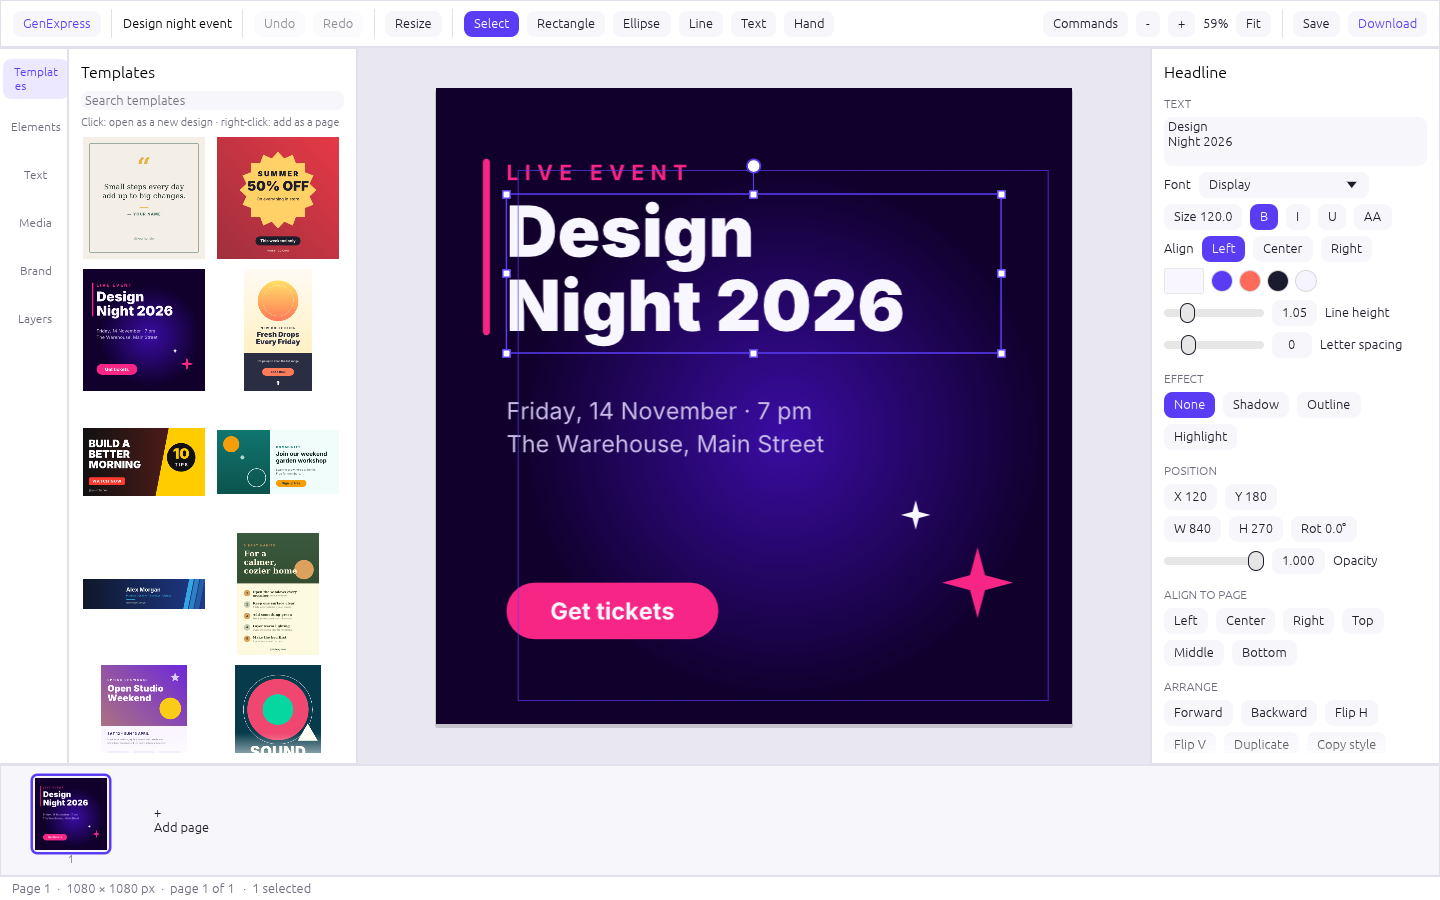
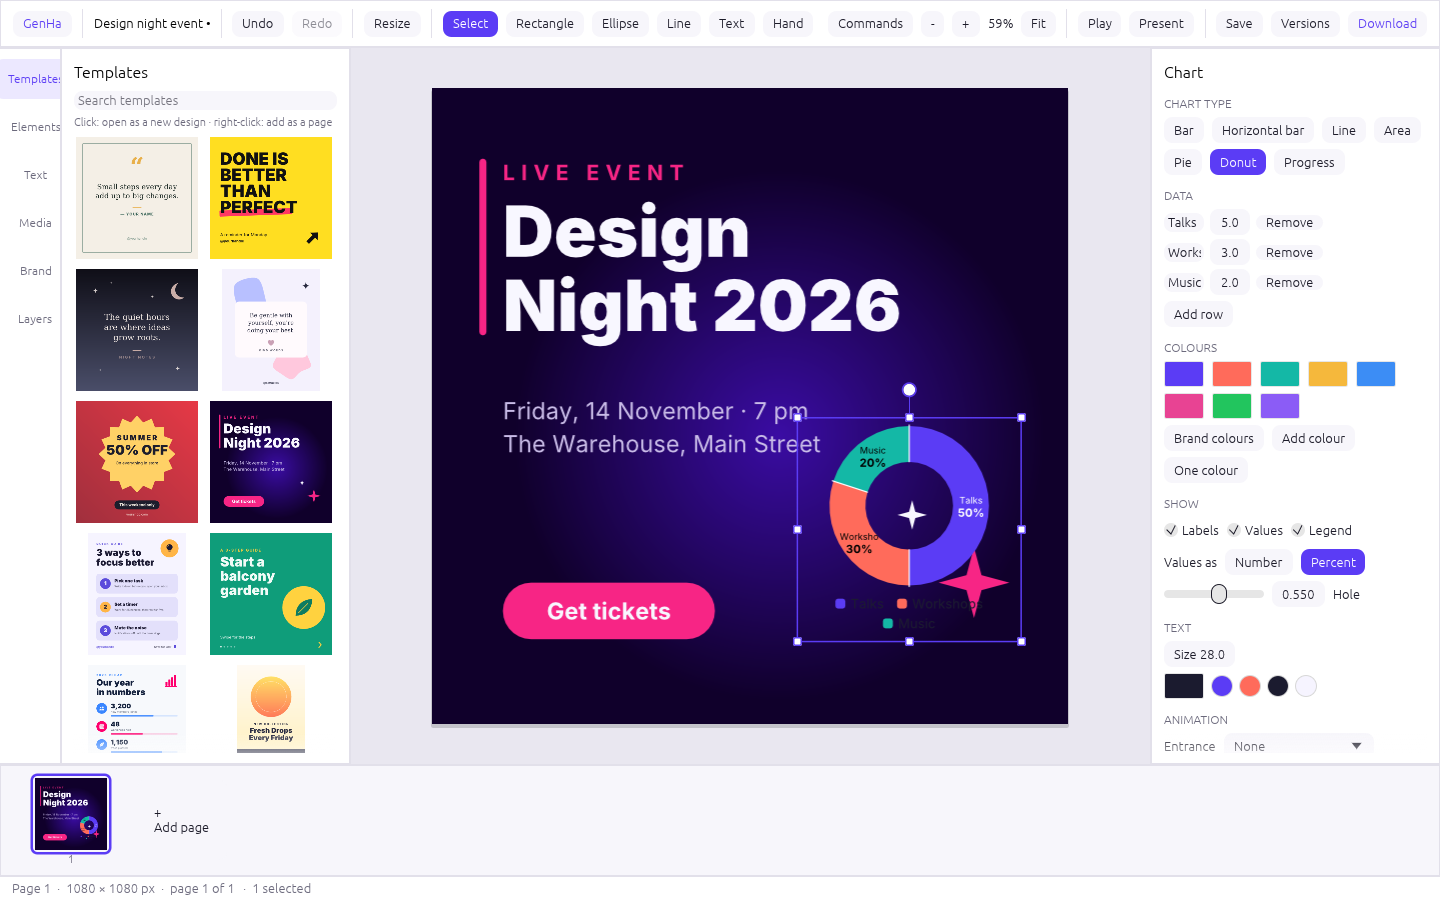
M2.12: screenshots with the GenHa name; wider left rail
Claude-Session: https://claude.ai/code/session_01L778Xi7jgo85ReTYAQ5rNk

diff --git a/crates/ui-egui/src/editor.rs b/crates/ui-egui/src/editor.rs
@@ -341,7 +341,7 @@ fn left_rail(app: &mut App, ui: &mut egui::Ui, t: &Tokens) {
                     let on = app.left_tab == tab;
                     let text = egui::RichText::new(tab.label()).size(12.0).color(if on { t.accent } else { t.text_dim });
                     let b = egui::Button::new(text)
-                        .min_size(egui::vec2(80.0, 40.0))
+                        .min_size(egui::vec2(92.0, 40.0))
                         .fill(if on { t.accent_soft } else { egui::Color32::TRANSPARENT })
                         .frame(on);
                     if ui.add(b).clicked() {
